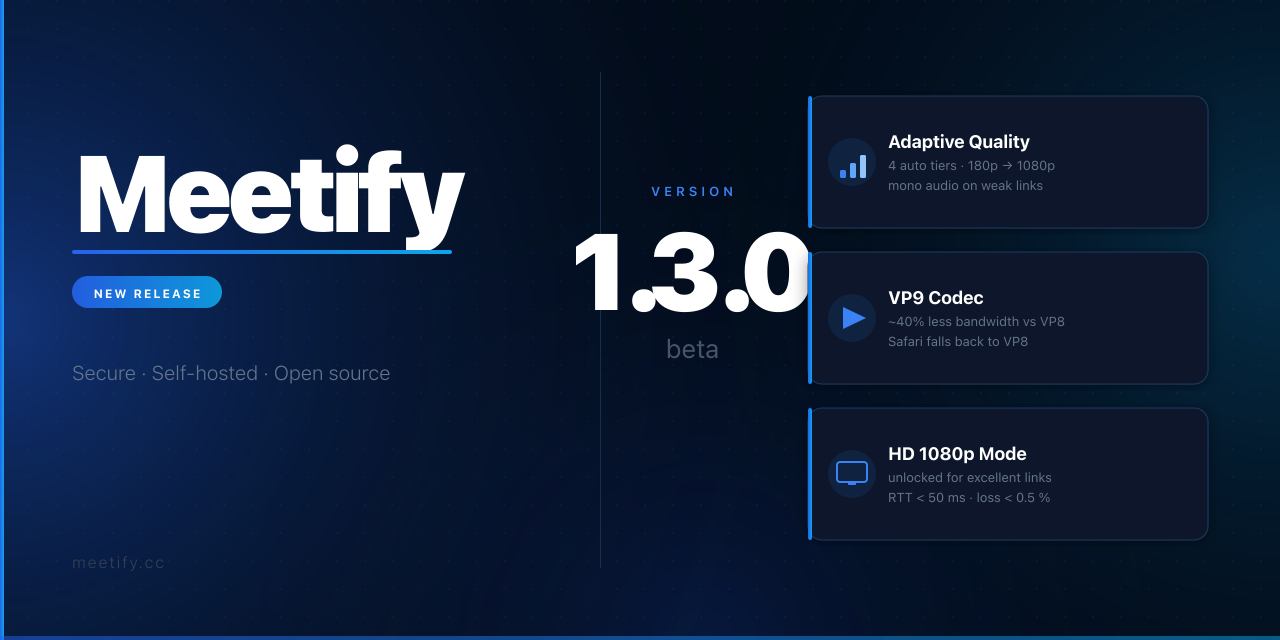
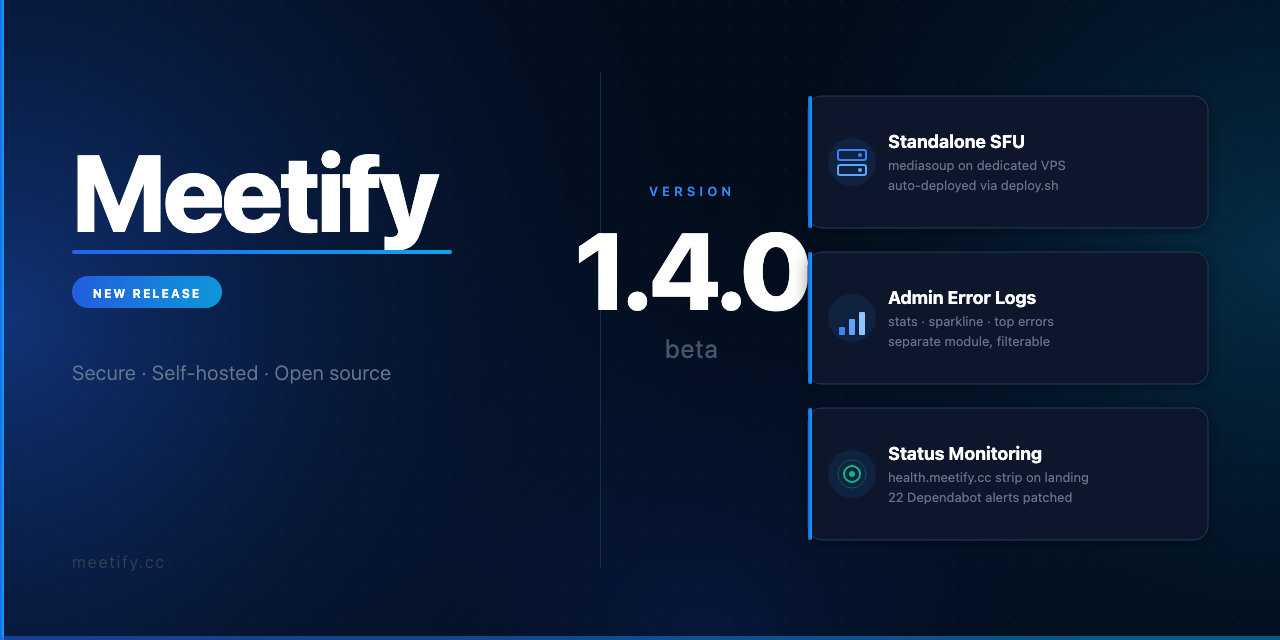
chore(release): bump to 1.4.0-beta
CHANGELOG, version.txt, README badge, and release banner
updated for 1.4.0-beta — standalone SFU, admin error logs,
status strip, 22 Dependabot alerts.

diff --git a/CHANGELOG.md b/CHANGELOG.md
@@ -13,6 +13,57 @@ containers as `APP_VERSION` by `make up`.
 
 _Nothing yet._
 
+## [1.4.0-beta] — 2026-06-27
+
+### Added
+- **Standalone SFU server** (`src/sfu_server/`). mediasoup extracted to a dedicated
+  Node.js process that can be deployed on a separate VPS. The main backend proxies
+  signaling to the SFU over HTTP authenticated by `SFU_SHARED_SECRET`; RTP media
+  flows directly between clients and the SFU on ports 40000–40059, eliminating the
+  server-transit bottleneck for group calls.
+- **Automated SFU deployment** in `deploy.sh` (step 6). rsync's `src/sfu_server/`
+  to the `meetify-mail` VPS, auto-detects its public IP, creates/updates `.env`
+  with `MEDIASOUP_ANNOUNCED_IP` and `SFU_SHARED_SECRET`, installs Docker if absent,
+  builds the image, and writes `SFU_SERVER_URL` back to the main server's `.env`
+  before restarting the backend.
+- **Admin — Error Logs tab** (`admin/admin-logs.js`). Separate JS module (not
+  inlined in `admin.js`) with five stat cards (total / errors / warnings / info /
+  last event), per-type breakdown bars, a 14-day sparkline chart, a top-15
+  recurring errors table, and a filterable full error list (by severity, type,
+  date). Click any row to open a full-detail modal with timestamp, stack trace, URL,
+  browser, user ID and session ID. Backed by the existing `/api/logs/*` endpoints.
+- **System status strip** on the landing page. Compact bar between the features
+  section and footer, linking to `health.meetify.cc` with a pulsing green dot,
+  "System Status" label, monospace URL and an arrow icon. Also added as a footer
+  link.
+
+### Changed
+- **Admin panel modularised.** `admin-logs.js` is the first module split out of
+  `admin.js` (which had grown to ~1 300 lines). The split keeps tab logic isolated
+  and sets the pattern for future tabs.
+
+### Fixed
+- **Raw JSON rendered as DOM content in Error Logs table.** `data-detail` with
+  JSON-stringified stack traces broke HTML attribute parsing (browser terminated
+  the attribute mid-value, rendering the rest as visible text) even after
+  `escAttr` escaping. Replaced with index-based lookup: entries stored in
+  `logsState.entries[]`, rows use `onclick="showLogDetailByIndex(i)"`.
+- **Admin panel content overflowing viewport width.** `</main>` was placed after
+  the Settings tab; Notifications, Socials, Support and Logs tabs were flex
+  siblings of `<main>` under `body { display: flex }`, losing width constraints.
+  Moved `</main>` to after the Logs tab section.
+- **Duplicate helper functions** — merged `fmtBytes` / `escapeHtml` duplicates in
+  admin and conference pages; removed dead code paths.
+
+### Security
+- **22 Dependabot alerts patched** across mediasoup, multer, express and transitive
+  dependencies. All 8 high-severity and 8 medium-severity advisories resolved.
+
+### Performance
+- **Docker image optimisation** — Nginx frontend image trimmed (~30 % smaller);
+  static assets served with `Cache-Control: max-age=31536000, immutable` for
+  versioned files.
+
 ## [1.3.0-beta] — 2026-06-20
 
 ### Added
@@ -179,7 +230,8 @@ Baseline release (pre-changelog). Summarized from history.
   timestamps), public/private conferences, participant tracking.
 - Admin panel, avatar upload, and client-side error logging to `/api/logs`.
 
-[Unreleased]: https://github.com/axl214v/Meetify/compare/v1.3.0-beta...HEAD
+[Unreleased]: https://github.com/axl214v/Meetify/compare/v1.4.0-beta...HEAD
+[1.4.0-beta]: https://github.com/axl214v/Meetify/compare/v1.3.0-beta...v1.4.0-beta
 [1.3.0-beta]: https://github.com/axl214v/Meetify/compare/v1.2.0-beta...v1.3.0-beta
 [1.2.0-beta]: https://github.com/axl214v/Meetify/compare/v1.1.0-beta...v1.2.0-beta
 [1.1.0-beta]: https://github.com/axl214v/Meetify/releases/tag/v1.1.0-beta

diff --git a/readme.md b/readme.md
@@ -11,7 +11,7 @@
     <a href="https://github.com/axl214v/Meetify/discussions">Discussions</a>
   </p>
 
-  [![Version](https://img.shields.io/badge/version-1.2.0--beta-blue)](version.txt)
+  [![Version](https://img.shields.io/badge/version-1.4.0--beta-blue)](version.txt)
   [![License](https://img.shields.io/badge/license-Polyform%20Noncommercial-orange)](LICENSE.md)
   [![Node.js](https://img.shields.io/badge/node-%3E%3D22-brightgreen)](https://nodejs.org/)
   [![Docker](https://img.shields.io/badge/Docker-Compose-blue)](https://www.docker.com/)